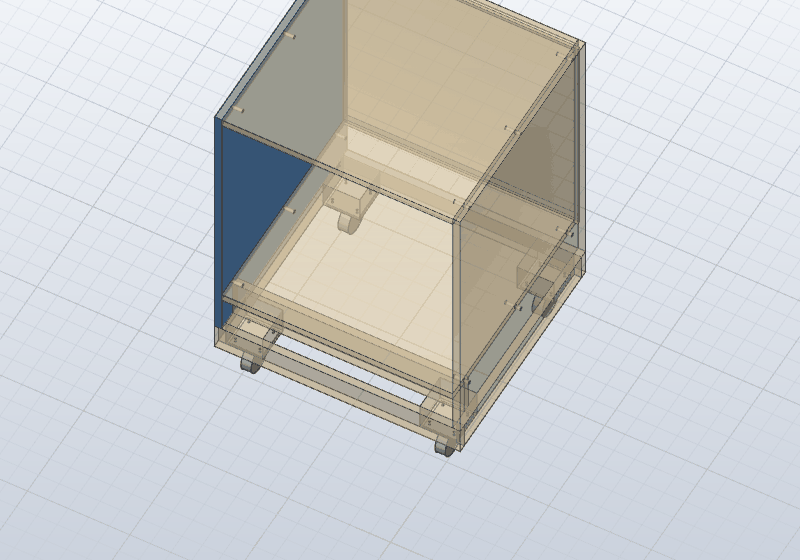
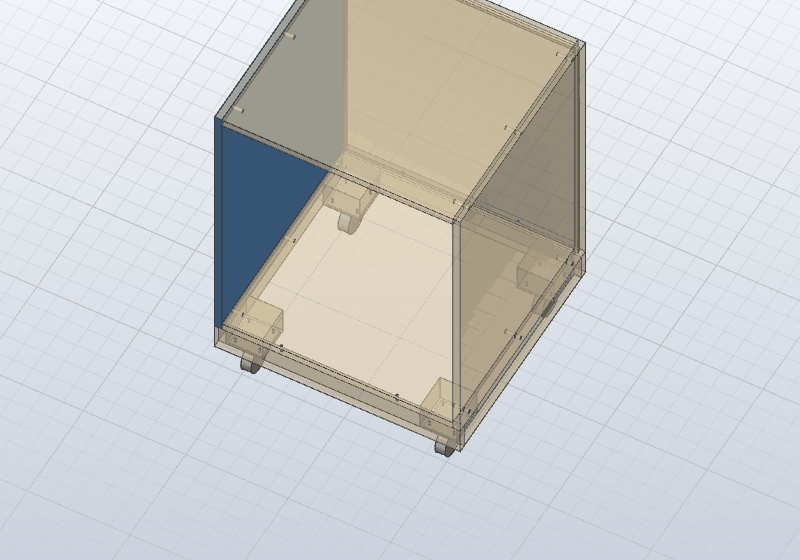
Mobile base: screws on a split bottom, stale ones replaced, picture without a plinth

Changed region(s): [[0.2812, 0.2125, 0.75, 0.7589]]

diff --git a/src/lib.rs b/src/lib.rs
@@ -1326,9 +1326,36 @@ fn entries(entry: &str, params: &Value, stored: &Value, run: Run) -> Result<Valu
                     wanted.push((feature, side.clone(), *world, base::BOLT_D));
                 }
             }
+            // A screw's name holds where it is, so a frame made again with other sizes finds its
+            // old holes stale: they are deleted, and the new ones cut.
             for (bottom, board, n, world) in &screws {
-                let feature = format!("{bottom} frame screw {n} into {board}");
+                let (x, y) = (
+                    (world[0][0] + world[1][0]) / 2.0,
+                    (world[0][1] + world[1][1]) / 2.0,
+                );
+                let at = |v: f64| (v * 10.0).round() / 10.0;
+                let feature = format!(
+                    "{bottom} frame screw {n} into {board} at {}, {}",
+                    at(x),
+                    at(y)
+                );
                 wanted.push((feature, bottom.clone(), *world, base::SCREW_D));
+            }
+            for cabinet in &cabinets {
+                let mine = format!("{cabinet} Bottom");
+                let stale: Vec<&str> = (had.iter().copied())
+                    .filter(|f| {
+                        f.split_once(" frame screw ")
+                            .is_some_and(|(b, _)| b == mine || b == format!("{mine} return"))
+                    })
+                    .filter(|f| !wanted.iter().any(|w| w.0 == *f))
+                    .collect();
+                if !stale.is_empty() {
+                    cuts.push((
+                        cabinet.clone(),
+                        vec![("timeline.delete", json!({"features": stale}))],
+                    ));
+                }
             }
             for (feature, side, world, d) in &wanted {
                 let cabinet = select::owner(&now, side).unwrap_or_default().to_string();

diff --git a/tests/test_base.py b/tests/test_base.py
@@ -104,12 +104,20 @@ def test_connector_bolts_join_the_cabinets_on_a_base(approval):
 
 def test_screws_fix_the_cabinets_to_the_frame(approval):
     # A on a base, Plinth No: its bottom rests on the frame's front and back boards, two 4.5 mm
-    # holes down through it into each, counted as frame screws. Run again, none is cut twice.
+    # holes down through it into each, counted as frame screws. Run again, none is cut twice;
+    # run again with 40 mm frame boards, the old holes go and four new ones are cut on their
+    # middle lines.
     steps = [plugin(approval, "cabinet", {"name": "A", "width": 600, "shelves": 0, "doors": 0}),
              pick("A Side L"), plugin(approval, "base", {"name": "Bench"}),
-             pick("A Side L"), plugin(approval, "base", {"name": "Bench"}), MEASURE, plugin(approval, "cutlist", {})]
+             pick("A Side L"), plugin(approval, "base", {"name": "Bench"}), MEASURE, plugin(approval, "cutlist", {}),
+             pick("A Side L"), plugin(approval, "base", {"name": "Bench", "thickness": 40}), MEASURE,
+             plugin(approval, "cutlist", {})]
     results = designed(approval, NONE, steps)
     assert results[2]["result"]["screws"] == 4, results[2]["result"]
-    assert cylinders(results[5], "A Bottom") >= 4, cylinders(results[5], "A Bottom")
+    holes = cylinders(results[5], "A Bottom")
+    assert holes >= 4, holes
     hardware = {h["item"]: h["qty"] for h in results[6]["result"]["hardware"]}
+    assert hardware.get("Frame screw, 4 x 50 mm") == 4, hardware
+    assert cylinders(results[9], "A Bottom") == holes, cylinders(results[9], "A Bottom")
+    hardware = {h["item"]: h["qty"] for h in results[10]["result"]["hardware"]}
     assert hardware.get("Frame screw, 4 x 50 mm") == 4, hardware

diff --git a/src/base/mod.rs b/src/base/mod.rs
@@ -249,7 +249,7 @@ pub fn bolts(measure: &Value, cabinets: &[String]) -> Vec<([String; 2], usize, [
 /// screws.
 pub const SCREW_D: f64 = 4.5;
 
-/// The screw holes (#198) down through each of `cabinets`' `Bottom` into a board of the base
+/// The screw holes (#198) down through each of `cabinets`' `Bottom` (and `Bottom return`) into a board of the base
 /// `name`'s frame on which it rests: each the bottom, the board, the hole's number on that board,
 /// 1 or 2, and its box in the world through the bottom. Two on each board that runs under the
 /// bottom at least 100 mm, at a quarter and three quarters of that, on the board's middle line.
@@ -270,8 +270,11 @@ pub fn screws(
         .filter(|(n, _)| n.starts_with(&frame))
         .collect();
     let mut holes = Vec::new();
-    for cabinet in cabinets {
-        let bottom = format!("{cabinet} Bottom");
+    // a split corner cabinet's bottom is two boards
+    let bottoms = cabinets
+        .iter()
+        .flat_map(|c| [format!("{c} Bottom"), format!("{c} Bottom return")]);
+    for bottom in bottoms {
         let Some(under) = all.iter().find(|b| b["name"] == bottom.as_str()).map(boxed) else {
             continue;
         };

diff --git a/scripts/usage_pictures.py b/scripts/usage_pictures.py
@@ -169,7 +169,7 @@ SHOTS = [
       lambda: run("settings", {"see_through": "on"})],
      cam([300, 0, 550], 1400, yaw=-0.9, pitch=0.15)),
     ("base-screws", "Frame screws: two holes down through the cabinet's bottom into each frame board under it, seen through the boards.",
-     [lambda: run("cabinet", {"name": "A", "width": 600, "shelves": 0, "doors": 0, **BASE}), pick("A Side L"),
+     [lambda: run("cabinet", {"name": "A", "width": 600, "shelves": 0, "doors": 0, **BASE, "plinth": 0}), pick("A Side L"),
       lambda: run("base", {"name": "Bench"}), lambda: run("settings", {"see_through": "on"})],
      cam([0, 0, 200], 1500, yaw=-0.5, pitch=0.9)),
     ("tool-bolts", "Bolt holes for the tool's feet: four 8 mm holes through the tool's shelf, seen through the opening.",

diff --git a/src/base/tests.rs b/src/base/tests.rs
@@ -207,6 +207,12 @@ fn screws_go_down_through_the_bottoms_into_the_frame() {
     );
     assert_eq!(holes[0].3, [[156.75, 6.75, 170.0], [161.25, 11.25, 188.0]]);
     assert_eq!(holes[3].1, "Bench Frame back");
+    // a split corner's return bottom is screwed down too
+    let mut split = m.clone();
+    split["bodies"][0]["name"] = json!("A Bottom return");
+    let holes = screws(&split, &["A".to_string()], "Bench");
+    assert_eq!(holes.len(), 4);
+    assert_eq!(holes[0].0, "A Bottom return");
     // a bottom that does not rest on the frame (a plinth under it) gets none
     let mut high = m.clone();
     high["bodies"][0]["bbox"]["min"][2] = json!(270.0);

diff --git a/CLAUDE.md b/CLAUDE.md
@@ -276,7 +276,7 @@ table says which).
 | `src/edit/` | Edit cabinet: what a cabinet's component remembers (`component.metadata.set` under our key), and merging that with the Edit dialog and the design's parameters |
 | `src/joint/` | Joinery chosen at build: a `Joint` (where one board's end meets another's face) and the cabinet's `Joinery` (its methods, their sizes as parameters, the cuts, the fastener models and counts) that the builders share |
 | `src/panel/` | End panel or filler (with its return) on one end of a box cabinet: boards inside its component, sized by expressions over its parameters. `lib.rs` runs them in the cabinet's component (on the origin: `inside`), remembers them for Edit, and refuses Place against a side that has one |
-| `src/base/` | Mobile base (#101, entry `base`): `base::plans` (each picked cabinet's plan box from its sides and backs, and the lowest point of its bodies) and `base::build`: at world coordinates with a `Kit` (numeric, like the worktop), `<Name> Frame front/back/left/right` on edge round the joint footprint, `Frame cross n` at each joint along the long way, `Block n` in the corners (and a middle pair past 1500 mm) with `fittings::caster` under each; summary `lift` (caster + frame height). `lib.rs` makes it in a component, grounds it, moves each grounded cabinet up by `lift - floor` (`move_grounded`; a held one follows its link) and remembers `cabinets` in the component's metadata (entry `base`); run again by name, it deletes and makes it again over the picked or remembered cabinets; connector bolts (#198): `base::bolts` finds each pair of touching `Side L`/`Side R` of the picked cabinets in the world and gives four `BOLT_D` 9 mm holes through both, which `lib.rs` cuts in each cabinet's own component (`inside`, `worktop::local`) as `<Side> connector bolt n to <other side>` (on the side first by name, which the cut list counts as `Connector bolt, M6`) and `<Side> connector hole n to <other side>`, n the place in the pair, so the names do not depend on the pick order; frame screws (#198): `base::screws` gives two `SCREW_D` 4.5 mm holes down through each cabinet's `Bottom` into each frame board it rests on (its underside on the board's top, at least 100 mm along it, on its middle line), from `inspect.measure` of the frame's bodies (the summary's) beside the cabinets', cut the same way as `<Bottom> frame screw n into <board>`, counted as `Frame screw, 4 x 50 mm`; the lift is rounded to the micrometre, as a bottom with holes measures a hair off; every cut skips a name already in the timeline and is not remembered, so an Edit drops it until Mobile base runs again |
+| `src/base/` | Mobile base (#101, entry `base`): `base::plans` (each picked cabinet's plan box from its sides and backs, and the lowest point of its bodies) and `base::build`: at world coordinates with a `Kit` (numeric, like the worktop), `<Name> Frame front/back/left/right` on edge round the joint footprint, `Frame cross n` at each joint along the long way, `Block n` in the corners (and a middle pair past 1500 mm) with `fittings::caster` under each; summary `lift` (caster + frame height). `lib.rs` makes it in a component, grounds it, moves each grounded cabinet up by `lift - floor` (`move_grounded`; a held one follows its link) and remembers `cabinets` in the component's metadata (entry `base`); run again by name, it deletes and makes it again over the picked or remembered cabinets; connector bolts (#198): `base::bolts` finds each pair of touching `Side L`/`Side R` of the picked cabinets in the world and gives four `BOLT_D` 9 mm holes through both, which `lib.rs` cuts in each cabinet's own component (`inside`, `worktop::local`) as `<Side> connector bolt n to <other side>` (on the side first by name, which the cut list counts as `Connector bolt, M6`) and `<Side> connector hole n to <other side>`, n the place in the pair, so the names do not depend on the pick order; frame screws (#198): `base::screws` gives two `SCREW_D` 4.5 mm holes down through each cabinet's `Bottom` into each frame board it rests on (its underside on the board's top, at least 100 mm along it, on its middle line), from `inspect.measure` of the frame's bodies (the summary's) beside the cabinets', cut the same way as `<Bottom> frame screw n into <board> at x, y` (`Bottom return` too; the world place in the name, so a run again with other frame sizes deletes the stale ones by `timeline.delete` in the cabinet and cuts the new ones), counted as `Frame screw, 4 x 50 mm`; the lift is rounded to the micrometre, as a bottom with holes measures a hair off; every cut skips a name already in the timeline and is not remembered, so an Edit drops it until Mobile base runs again |
 | `src/worktop/` | Worktop over the selected cabinets: measures their feet (a corner cabinet's two legs), groups them into runs by the way they face, joins runs in corners (butt or mitre) and makes each piece a box or an extruded outline at world coordinates; dog holes and a cut-out in piece 1. `lib.rs` finds the cabinets (a picked worktop's remembered ones), replaces a worktop of that name, makes the component and grounds it |
 | `src/material.rs` | Board materials: create on first use, assign; See-through boards (`see_through`, `opacity`) |
 | `src/cutlist/` | Cut list, edge banding and grain from `inspect.measure`, and the sheets to buy from the cutting layouts |

diff --git a/docs/usage.md b/docs/usage.md
@@ -811,8 +811,8 @@ frame under all of them and stands them on it:
   cabinet makes its side whole again: run Mobile base again afterwards.
 - **Frame screws** fix the cabinets to the frame: where a cabinet's bottom rests on a frame board
   for at least 100 mm, two 4.5 mm holes (for 4 x 50 mm screws) go down through the bottom onto the
-  board's middle, at a quarter and three quarters of that length. Like the bolts, a run again
-  does not cut them twice, and an Edit of the cabinet drops them until Mobile base runs again.
+  board's middle, at a quarter and three quarters of that length. A run again does not cut them
+  twice, one with other frame sizes moves them, and an Edit of the cabinet drops them until Mobile base runs again.
   A cabinet with a plinth does not rest its bottom on the frame and gets none.
 - The cut list lists the frame's boards and blocks, and counts the casters as `Caster, locking`,
   the bolts as `Connector bolt, M6` and the screws as `Frame screw, 4 x 50 mm`.
